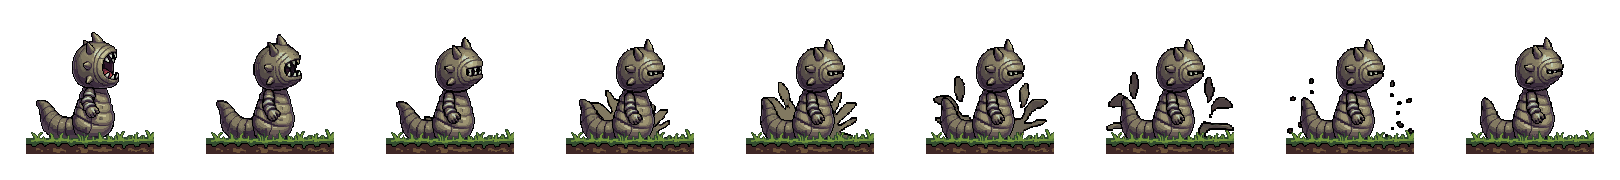
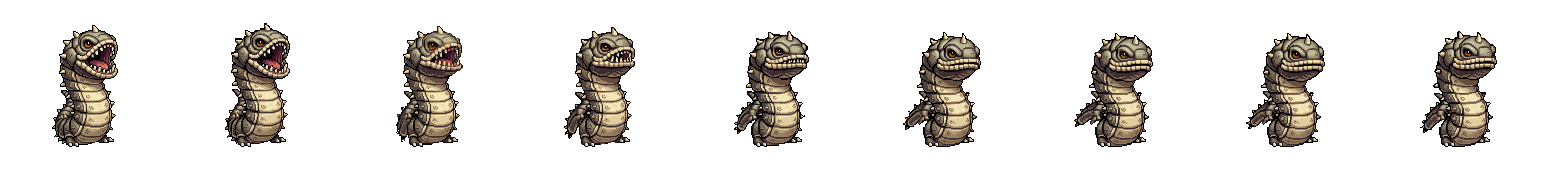
Side view: cave tileset, the burrower rises out of the floor, a death beat, changelog
- A natural cave-rock tileset from PixelLab replaces the blue bricks (?tiles=stone for the old)
- The burrower redrawn without its patch of grass, coming up out of the floor and sinking back
- A death holds a moment before he wakes at the shrine (or the start)
- Banners and tells time by the frame, not an assumed 60 fps

Claude-Session: https://claude.ai/code/session_01RbzuquVJgwEQJPEwHgZ7Ky

Changed region(s): [[0.124, 0.1453, 0.6512, 0.8721], [0.6822, 0.1744, 0.9922, 0.8721], [0.0, 0.1744, 0.093, 0.8721]]

diff --git a/src/side/render.js b/src/side/render.js
@@ -10,6 +10,7 @@ const THREE = window.THREE;
 export const PPU = 64;                  // pixels to a world unit: a tile is 32, the warrior ~112 tall
 export const VIEW_H = 11.25;            // world units the screen is tall (720 pixels at PPU)
 const FOV = 26;
+const TILES = new URLSearchParams(location.search).get('tiles') === 'stone' ? 'assets/side/tiles/stone' : 'assets/side/tiles/cave';   // the rock's face (tools/pixellab.py tileset)
 
 // ---- pixel textures, painted here (the rock is ours; the characters are PixelLab's)
 function canvasTex(w, h, paint){
@@ -73,7 +74,7 @@ export function makeRenderer(canvas){
   // corner where four map cells meet, picked by which of the four are rock; deep inside the rock they darken
   const depthTo = new Map();   // how many tiles from open air, up to 4
   for (const s of rocks){ let d = 4; for (let r = 1; r <= 3 && d === 4; r++) for (let a = -r; a <= r && d === 4; a++) for (let b = -r; b <= r; b++) if (tileAt(s.i + a, s.j + b) !== ROCK){ d = r; break; } depthTo.set(s.i + ',' + s.j, d); }
-  fetch('assets/side/tiles/stone/tileset.json').then(r => r.json()).then(ts => {
+  fetch(`${TILES}/tileset.json`).then(r => r.json()).then(ts => {
     const byKey = new Map(), L = c => c === 'lower' ? 1 : 0;
     ts.tileset.tiles.forEach((t, n) => byKey.set([t.corners.NW, t.corners.NE, t.corners.SW, t.corners.SE].map(L).join(''), n));
     const groups = new Map();
@@ -85,7 +86,7 @@ export function makeRenderer(canvas){
       (groups.get(n) || groups.set(n, []).get(n)).push({ x: vx * T, y: vy * T, deep });
     }
     for (const [n, list] of groups){
-      const tex = new THREE.TextureLoader().load(`assets/side/tiles/stone/tile_${String(n).padStart(2, '0')}.png`); tex.magFilter = tex.minFilter = THREE.NearestFilter; tex.generateMipmaps = false;
+      const tex = new THREE.TextureLoader().load(`${TILES}/tile_${String(n).padStart(2, '0')}.png`); tex.magFilter = tex.minFilter = THREE.NearestFilter; tex.generateMipmaps = false;
       const mesh = new THREE.InstancedMesh(new THREE.PlaneGeometry(T, T), new THREE.MeshLambertMaterial({ map: tex, alphaTest: 0.5 }), list.length);
       list.forEach((p, k) => { dummy.position.set(p.x, p.y, 0); dummy.updateMatrix(); mesh.setMatrixAt(k, dummy.matrix); const q = Math.min(3, Math.floor(p.deep)), f = p.deep - q, A = SHADE[q], B = SHADE[q + 1]; col.setRGB(A[0] + (B[0] - A[0]) * f, A[1] + (B[1] - A[1]) * f, A[2] + (B[2] - A[2]) * f); mesh.setColorAt(k, col); });
       scene.add(mesh);
@@ -94,7 +95,7 @@ export function makeRenderer(canvas){
   const col = new THREE.Color();
   // the face's tint by depth: the edges keep the tiles' own colour nudged toward the cavern's teal, the inside sinks
   // into a dark silhouette so the lit edges read
-  const SHADE = [[0.86, 1, 1], [0.8, 0.95, 1], [0.4, 0.52, 0.6], [0.26, 0.32, 0.42], [0.18, 0.22, 0.31]];
+  const SHADE = [[0.92, 1.02, 1.06], [0.82, 0.93, 1], [0.4, 0.52, 0.6], [0.26, 0.32, 0.42], [0.18, 0.22, 0.31]];
   const ledges = shown.filter(s => s.t === LEDGE), ledgeMesh = new THREE.InstancedMesh(new THREE.BoxGeometry(T * 1.02, T * 0.32, DEPTH * 0.7), ledgeMat, Math.max(1, ledges.length));
   ledges.forEach((s, k) => { dummy.position.set((s.i + 0.5) * T, (s.j + 1) * T - T * 0.16, -DEPTH * 0.35); dummy.updateMatrix(); ledgeMesh.setMatrixAt(k, dummy.matrix); });
   scene.add(ledgeMesh);

diff --git a/src/side/main.js b/src/side/main.js
@@ -25,7 +25,7 @@ const E = spawnEnemies(R.scene);
 const BOSS = makeWarden(R.scene, R.camera);
 // the shrine: it fills the flask and the hearts, and is where he wakes after a death
 const SHRINE = (m => m && { x: (m.x + 0.5) * T, y: m.y * T })(LEVEL.marks.find(m => m.type === 'shrine'));
-let CHECK = null, BANNER = null, WON = false;
+let CHECK = null, BANNER = null, WON = false, DEATH = 0;
 const banner = (a, b, t = 3.2) => { BANNER = { a, b, t, life: t }; };
 const FEEL_FX = { hitstop: 0, shake: 0 };
 // the aim assist: with nothing in reach ahead and a creature in reach behind, a swing turns to it
@@ -40,6 +40,7 @@ bindInput();
 // which of his animations, and how far into it
 function heroPose(P, t){
   const A = hero.meta ? hero.meta.anims : {}, has = n => !!A[n];
+  if (P.hp <= 0 && has('hurt')) return ['hurt', 0.999];
   if (P.hurtT > 0 && has('hurt')) return ['hurt', 1 - P.hurtT / MV.hurtStun];
   if (P.roll > 0 && has('roll')) return ['roll', 1 - P.roll / MV.roll.time];
   if (P.dive && has('plunge')) return ['plunge', 0.6];
@@ -66,7 +67,7 @@ function frame(ts){
   let sdt = dt; if (FEEL_FX.hitstop > 0){ FEEL_FX.hitstop -= dt; sdt = dt * 0.06; }
   acc += sdt; time += dt;
   const h = 1 / 120;
-  while (acc >= h){ const x0 = P.x; stepPlayer(P, h); P.dist = (P.dist || 0) + Math.abs(P.x - x0); acc -= h; }
+  while (acc >= h){ const x0 = P.x; if (DEATH <= 0) stepPlayer(P, h); P.dist = (P.dist || 0) + Math.abs(P.x - x0); acc -= h; }
   endFrame();
   const evs = [];
   stepEnemies(E, P, sdt, fx, evs);
@@ -74,7 +75,9 @@ function frame(ts){
   for (const e of P.events) onEvent(e);
   P.events.length = 0;
   for (const e of evs) onEvent(e);
-  if (P.hp <= 0){ const s = CHECK || spawnPoint(); P = newPlayer(s.x, s.y); if (BOSS) BOSS.reset(); banner(CHECK ? 'You wake at the shrine' : 'You wake', ''); }
+  // a death: a beat to see it, then he wakes at the shrine (or the start) and the Warden waits again
+  if (P.hp <= 0 && DEATH <= 0){ DEATH = 1.6; P.vx = 0; fx.burst({ x: P.x, y: P.y + 0.9 }, 30, 0xff5060); FEEL_FX.hitstop = 0.2; banner('You fell', '', 1.6); }
+  if (DEATH > 0){ DEATH -= dt; if (DEATH <= 0){ const s = CHECK || spawnPoint(); P = newPlayer(s.x, s.y); if (BOSS) BOSS.reset(); banner(CHECK ? 'You wake at the shrine' : 'You wake', '', 2); } }
   if (SHRINE && Math.abs(P.x - SHRINE.x) < 1.1 && Math.abs(P.y - SHRINE.y) < 1.5 && (!CHECK || P.flask < TUNE.player.flask || P.hp < P.maxHp)){
     const first = !CHECK; CHECK = { x: SHRINE.x, y: SHRINE.y }; P.flask = TUNE.player.flask; P.hp = P.maxHp; sfx.drink(); fx.ring({ x: SHRINE.x, y: SHRINE.y + 1 }, 0xffd27a);
     if (first) banner('Shrine', 'your flask is full; you will wake here');

diff --git a/src/side/enemies.js b/src/side/enemies.js
@@ -36,7 +36,7 @@ export function spawnEnemies(scene){
   const orbMat = new THREE.MeshBasicMaterial({ color: 0x9dff70 });
   return { list, orbGeo: new THREE.SphereGeometry(0.18, 8, 6), orbMat, scene };
 }
-const anim = (e, name, frac) => { if (!e.sprite) return; const A = e.meta.anims; const n = A[name] ? name : Object.keys(A).find(k => k !== 'stand') || 'stand'; e.sprite.show(n, frac, e.x, e.d.fly ? e.y - e.d.h * 0.7 : e.y, e.face, 0.03); };
+const anim = (e, name, frac, dy = 0, z = 0.03) => { if (!e.sprite) return; const A = e.meta.anims; const n = A[name] ? name : Object.keys(A).find(k => k !== 'stand') || 'stand'; e.sprite.show(n, frac, e.x, (e.d.fly ? e.y - e.d.h * 0.7 : e.y) + dy, e.face, z); };
 
 export function stepEnemies(E, P, dt, fx, events){
   for (const e of E.list){
@@ -111,7 +111,10 @@ export function stepEnemies(E, P, dt, fx, events){
       e.face = Math.sign(dx) || e.face;
       const show = e.st === 'rise' || e.st === 'up';
       if (e.sprite) e.sprite.g.visible = show;
-      anim(e, 'snap', e.st === 'rise' ? e.tm / e.d.rise * 0.5 : e.st === 'up' ? 0.5 + Math.min(0.49, e.tm / 0.4 * 0.5) : 0);
+      // it comes up out of the floor (drawn just behind the rock's face, so the floor hides what is still under it) and
+      // sinks back at the end
+      const out = e.st === 'rise' ? Math.min(1, e.tm / e.d.rise) : e.st === 'up' ? Math.min(1, (e.d.up - e.tm) / 0.25) : 0;
+      anim(e, 'snap', e.st === 'rise' ? e.tm / e.d.rise * 0.3 : e.st === 'up' ? 0.3 + Math.min(0.69, e.tm / 0.45 * 0.7) : 0, -(1 - out) * 2.2, -0.05);
       e.stand.visible = !e.sprite && show;
     }
     // the glob in flight

diff --git a/docs/side.md b/docs/side.md
@@ -2,7 +2,10 @@
 
 The Climb as a 2.5D side-scroller: a flat plane that climbs up through shafts, tunnels and chambers, metroidvania-style, with HD pixel art from PixelLab and a bright, glowing look. Open `side.html`.
 
-- **World** (`src/side/level.js`): tiles half a unit square (32 pixels), rooms a screen each (40 x 23 tiles), joined into a region by doorways, shafts and tunnels. Rooms are built from pieces (walls, doors, ledges, stairs, low tunnels, spikes) and markers (spawn, torches, crystals, enemies, the exit).
+- **World** (`src/side/level.js`): tiles half a unit square (32 pixels), rooms a screen (40 x 23 tiles) or several, joined into a region by doorways, shafts and tunnels. Rooms are built from pieces (walls, doors, ledges, stairs, low tunnels, spikes) and markers (spawn, torches, crystals, creatures, the shrine, the boss, the exit). The first region is twelve rooms on a 4 x 6 grid: up from the start through the corridor, shaft and tunnel to the chamber; then either right along the ascent and gallery to the foot of the well, or up through the roost and across the bridge to the grotto (the shrine) and into the well halfway up; the well climbs two screens to the Warden's arena.
+- **Creatures** (`src/side/enemies.js`): crawler, flitter, spitter, burrower, the climb's threats remade for the plane, each with a tell (a red ! over it) and PixelLab strips.
+- **The Warden** (`src/side/boss.js`): a stone titan at the back of a two-screen arena, only its head and chest above the stage. Its arms are three PixelLab pieces (upper arm, forearm, fist) between shoulder, elbow and fist, bent by a two-bone solve and turned to the camera, so they reach out of the depth onto the stage. It slams (the fist follows him, holds over a red mark, drops), sweeps the stage (double-jump it, roll through it, or stand on the high ledges), and from half health its slams ripple along the stage and stones fall from the roof. Its fists can be cut while they rest on the stage; a plunge onto one hurts more. The camera draws back for the fight. It wakes when he stands on the stage and starts over if he dies; when it falls, the way up opens.
+- **Shrine**: fills the flask and the hearts, and is where he wakes after a death.
 - **Motor** (`src/side/motor.js`): Movement v2 on tile collision. Same tuning (`TUNE.move`), the same F9 feel panel and input queue as the climb: the double jump, launch float, air-control fade, coyote time, jump buffer, roll cancels, plunge, heavy landings, the ledge grab; and walls, ceilings, one-way ledges (down + jump drops through), steps climbed as you walk, low tunnels (crouch or roll), spikes.
 - **Look** (`src/side/render.js`): rendered pixel-exact at 64 pixels a unit and scaled up whole; a narrow perspective camera so the stone has depth and the background slides past slower; PixelLab's side-scroller corner tiles on the dual grid (rock interiors darkened), the painted cavern far behind, torches and crystals with real light, and bloom on everything bright.
 - **Art** (`tools/pixellab.py`): characters, side-view animations, backgrounds and tilesets from PixelLab, pulled through the API's own exports and packed into strips (`assets/side/<name>/<anim>.png` + `sprite.json` with where the feet and middle sit). The token is the session's, added by its network proxy; nothing secret is in the repository. `assets/side/pixellab.json` records what was made.

diff --git a/CHANGELOG.md b/CHANGELOG.md
@@ -1,5 +1,16 @@
 # Changelog
 
+## Side view (branch `claude/climb-2d`, unreleased)
+
+The Climb as a 2.5D side-scrolling metroidvania (`side.html`, docs/side.md): a flat plane that climbs up through shafts and tunnels, with HD pixel art from PixelLab and a bright, glowing look.
+
+- **Movement v2 on tiles**: the same tuning, input queue and feel panel as the climb, plus walls, ceilings, one-way ledges (down + jump drops through), steps taken in stride, low tunnels, spikes and the ledge grab.
+- **The warrior**, drawn by PixelLab: stand, idle, run, jump, fall, roll, three cuts, the plunge, hurt.
+- **The first region**: twelve rooms with two routes up, from the start through the corridor, shaft and tunnel, by the gallery or across the bridge, up the two-screen well to the arena. A **shrine** in the grotto fills the flask and is where he wakes.
+- **Creatures**: crawler, flitter, spitter and burrower, each with a tell (a red ! over it).
+- **The Warden**: a stone titan at the back of the arena whose arms reach out of the depth onto the stage. It slams, sweeps, ripples the stage and brings the roof down; cut its fists while they rest. The way up opens when it falls.
+- **The look**: rendered pixel-exact and scaled up whole; a narrow perspective camera so the rock has depth and the painted cavern slides past slower; cave tiles on the dual grid, darkening into the rock; torches, crystals and light shafts, drifting motes, bloom.
+
 ## 0.28.0 — Movement v2: Dead Cells' controls (2026-11-09)
 
 From the designer's research on Dead Cells' movement, checked against its developer's own sources: his GDC 2019 talk, and his MIT-licensed game-feel demo (`deepnight/gamefeel`), read line by line. Their exact numbers are not public; ours are tuned to the warrior's size. Decision 0010.
